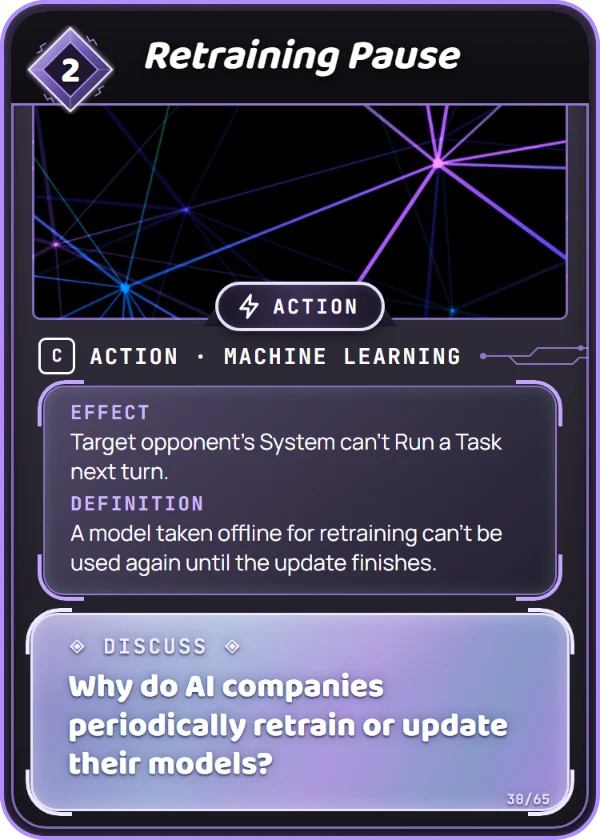
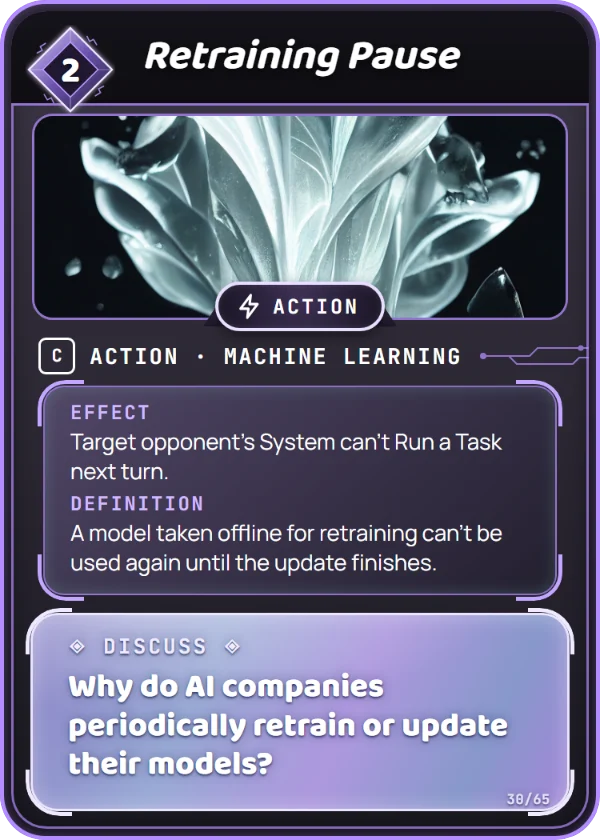
Add artwork to cards 26-30
Supervised Learning, Neural Network, Large Language Model, Reinforcement
Learning, and Retraining Pause: rebuilt proofs and refreshed card images
for the website. The source artwork stays local in design/icons/.

Changed region(s): [[0.03, 0.1238, 0.96, 0.4024], [0.93, 0.3405, 0.96, 0.4024], [0.06, 0.3714, 0.09, 0.4024]]

diff --git a/design/frame-v2/proof-reinforcement-learning-ml.html b/design/frame-v2/proof-reinforcement-learning-ml.html
@@ -127,7 +127,7 @@
 <body><div class="stage"><div class="v2 tall-tray" style="--edge:#b48cff;--outerA:#26222e;--outerB:#131118;--body1:#3b3645;--body2:#1b1921;--head:#15131a;--panel1:rgba(150,128,196,.36);--panel2:rgba(36,32,48,.88);--label:#d0b9ff;--bracket:#c4a6ff;--circuit:#b48cff;--statA:#3e3155;--statB:#191424;--statBorder:#e8deff;--ledgeA:#3a3050;--ledgeB:#1c1727;--discussBg:linear-gradient(115deg,#8b84c8 0%,#9aaad6 32%,#ae98de 58%,#8898cc 82%,#a286d8 100%);--discussBorder:rgba(238,232,255,.95);--discussBracket:#efe9ff;--discussTag:#f1ecff;--discussInk:#ffffff;--discussShadow:0 2px 3px rgba(18,28,70,.75), 0 0 14px rgba(18,28,70,.35);--ink:#ffffff;--typeInk:#ffffff;--headInk:#ffffff;--statInk:#ffffff;--art:url('../backgrounds/selected/ml.jpg')">
   <div class="v2-body">
     <div class="v2-art"></div>
-    
+    <div class="v2-icon photo"><img src="../icons/reinforcement-learning.png" alt=""></div>
     <header class="v2-head"><h2>Reinforcement Learning</h2></header>
     <div class="v2-gem diamond"><svg viewBox="0 0 140 140" width="140" height="140" aria-hidden="true"><defs>
     <linearGradient id="gAml" x1="0" y1="0" x2="1" y2="1"><stop offset="0" stop-color="#dccbff"/><stop offset=".5" stop-color="#6c52ad"/><stop offset="1" stop-color="#211933"/></linearGradient>

diff --git a/design/frame-v2/proof-large-language-model-ml.html b/design/frame-v2/proof-large-language-model-ml.html
@@ -127,7 +127,7 @@
 <body><div class="stage"><div class="v2 full tall-tray" style="--edge:#b48cff;--outerA:#26222e;--outerB:#131118;--body1:#3b3645;--body2:#1b1921;--head:#15131a;--panel1:rgba(150,128,196,.36);--panel2:rgba(36,32,48,.88);--label:#d0b9ff;--bracket:#c4a6ff;--circuit:#b48cff;--statA:#3e3155;--statB:#191424;--statBorder:#e8deff;--ledgeA:#3a3050;--ledgeB:#1c1727;--discussBg:linear-gradient(115deg,#8b84c8 0%,#9aaad6 32%,#ae98de 58%,#8898cc 82%,#a286d8 100%);--discussBorder:rgba(238,232,255,.95);--discussBracket:#efe9ff;--discussTag:#f1ecff;--discussInk:#ffffff;--discussShadow:0 2px 3px rgba(18,28,70,.75), 0 0 14px rgba(18,28,70,.35);--ink:#ffffff;--typeInk:#ffffff;--headInk:#ffffff;--statInk:#ffffff;--art:url('../backgrounds/selected/ml.jpg')">
   <div class="v2-body">
     <div class="v2-art"></div>
-    
+    <div class="v2-icon photo"><img src="../icons/large-language-model.png" alt=""></div>
     <header class="v2-head"><h2>Large Language Model</h2></header>
     <div class="v2-gem round"><svg viewBox="0 0 140 140" width="140" height="140" aria-hidden="true"><defs>
     <linearGradient id="gAml" x1="0" y1="0" x2="1" y2="1"><stop offset="0" stop-color="#dccbff"/><stop offset=".5" stop-color="#6c52ad"/><stop offset="1" stop-color="#211933"/></linearGradient>

diff --git a/design/frame-v2/proof-retraining-pause-ml.html b/design/frame-v2/proof-retraining-pause-ml.html
@@ -127,7 +127,7 @@
 <body><div class="stage"><div class="v2 nostats" style="--edge:#b48cff;--outerA:#26222e;--outerB:#131118;--body1:#3b3645;--body2:#1b1921;--head:#15131a;--panel1:rgba(150,128,196,.36);--panel2:rgba(36,32,48,.88);--label:#d0b9ff;--bracket:#c4a6ff;--circuit:#b48cff;--statA:#3e3155;--statB:#191424;--statBorder:#e8deff;--ledgeA:#3a3050;--ledgeB:#1c1727;--discussBg:linear-gradient(115deg,#8b84c8 0%,#9aaad6 32%,#ae98de 58%,#8898cc 82%,#a286d8 100%);--discussBorder:rgba(238,232,255,.95);--discussBracket:#efe9ff;--discussTag:#f1ecff;--discussInk:#ffffff;--discussShadow:0 2px 3px rgba(18,28,70,.75), 0 0 14px rgba(18,28,70,.35);--ink:#ffffff;--typeInk:#ffffff;--headInk:#ffffff;--statInk:#ffffff;--art:url('../backgrounds/selected/ml.jpg')">
   <div class="v2-body">
     <div class="v2-art"></div>
-    
+    <div class="v2-icon photo"><img src="../icons/retraining-pause.png" alt=""></div>
     <header class="v2-head"><h2>Retraining Pause</h2></header>
     <div class="v2-gem diamond"><svg viewBox="0 0 140 140" width="140" height="140" aria-hidden="true"><defs>
     <linearGradient id="gAml" x1="0" y1="0" x2="1" y2="1"><stop offset="0" stop-color="#dccbff"/><stop offset=".5" stop-color="#6c52ad"/><stop offset="1" stop-color="#211933"/></linearGradient>

diff --git a/design/frame-v2/proof-supervised-learning-ml.html b/design/frame-v2/proof-supervised-learning-ml.html
@@ -127,7 +127,7 @@
 <body><div class="stage"><div class="v2" style="--edge:#b48cff;--outerA:#26222e;--outerB:#131118;--body1:#3b3645;--body2:#1b1921;--head:#15131a;--panel1:rgba(150,128,196,.36);--panel2:rgba(36,32,48,.88);--label:#d0b9ff;--bracket:#c4a6ff;--circuit:#b48cff;--statA:#3e3155;--statB:#191424;--statBorder:#e8deff;--ledgeA:#3a3050;--ledgeB:#1c1727;--discussBg:linear-gradient(115deg,#8b84c8 0%,#9aaad6 32%,#ae98de 58%,#8898cc 82%,#a286d8 100%);--discussBorder:rgba(238,232,255,.95);--discussBracket:#efe9ff;--discussTag:#f1ecff;--discussInk:#ffffff;--discussShadow:0 2px 3px rgba(18,28,70,.75), 0 0 14px rgba(18,28,70,.35);--ink:#ffffff;--typeInk:#ffffff;--headInk:#ffffff;--statInk:#ffffff;--art:url('../backgrounds/selected/ml.jpg')">
   <div class="v2-body">
     <div class="v2-art"></div>
-    
+    <div class="v2-icon photo"><img src="../icons/supervised-learning.png" alt=""></div>
     <header class="v2-head"><h2>Supervised Learning</h2></header>
     <div class="v2-gem diamond"><svg viewBox="0 0 140 140" width="140" height="140" aria-hidden="true"><defs>
     <linearGradient id="gAml" x1="0" y1="0" x2="1" y2="1"><stop offset="0" stop-color="#dccbff"/><stop offset=".5" stop-color="#6c52ad"/><stop offset="1" stop-color="#211933"/></linearGradient>

diff --git a/design/frame-v2/proof-neural-network-ml.html b/design/frame-v2/proof-neural-network-ml.html
@@ -127,7 +127,7 @@
 <body><div class="stage"><div class="v2" style="--edge:#b48cff;--outerA:#26222e;--outerB:#131118;--body1:#3b3645;--body2:#1b1921;--head:#15131a;--panel1:rgba(150,128,196,.36);--panel2:rgba(36,32,48,.88);--label:#d0b9ff;--bracket:#c4a6ff;--circuit:#b48cff;--statA:#3e3155;--statB:#191424;--statBorder:#e8deff;--ledgeA:#3a3050;--ledgeB:#1c1727;--discussBg:linear-gradient(115deg,#8b84c8 0%,#9aaad6 32%,#ae98de 58%,#8898cc 82%,#a286d8 100%);--discussBorder:rgba(238,232,255,.95);--discussBracket:#efe9ff;--discussTag:#f1ecff;--discussInk:#ffffff;--discussShadow:0 2px 3px rgba(18,28,70,.75), 0 0 14px rgba(18,28,70,.35);--ink:#ffffff;--typeInk:#ffffff;--headInk:#ffffff;--statInk:#ffffff;--art:url('../backgrounds/selected/ml.jpg')">
   <div class="v2-body">
     <div class="v2-art"></div>
-    
+    <div class="v2-icon photo"><img src="../icons/neural-network.png" alt=""></div>
     <header class="v2-head"><h2>Neural Network</h2></header>
     <div class="v2-gem diamond"><svg viewBox="0 0 140 140" width="140" height="140" aria-hidden="true"><defs>
     <linearGradient id="gAml" x1="0" y1="0" x2="1" y2="1"><stop offset="0" stop-color="#dccbff"/><stop offset=".5" stop-color="#6c52ad"/><stop offset="1" stop-color="#211933"/></linearGradient>
